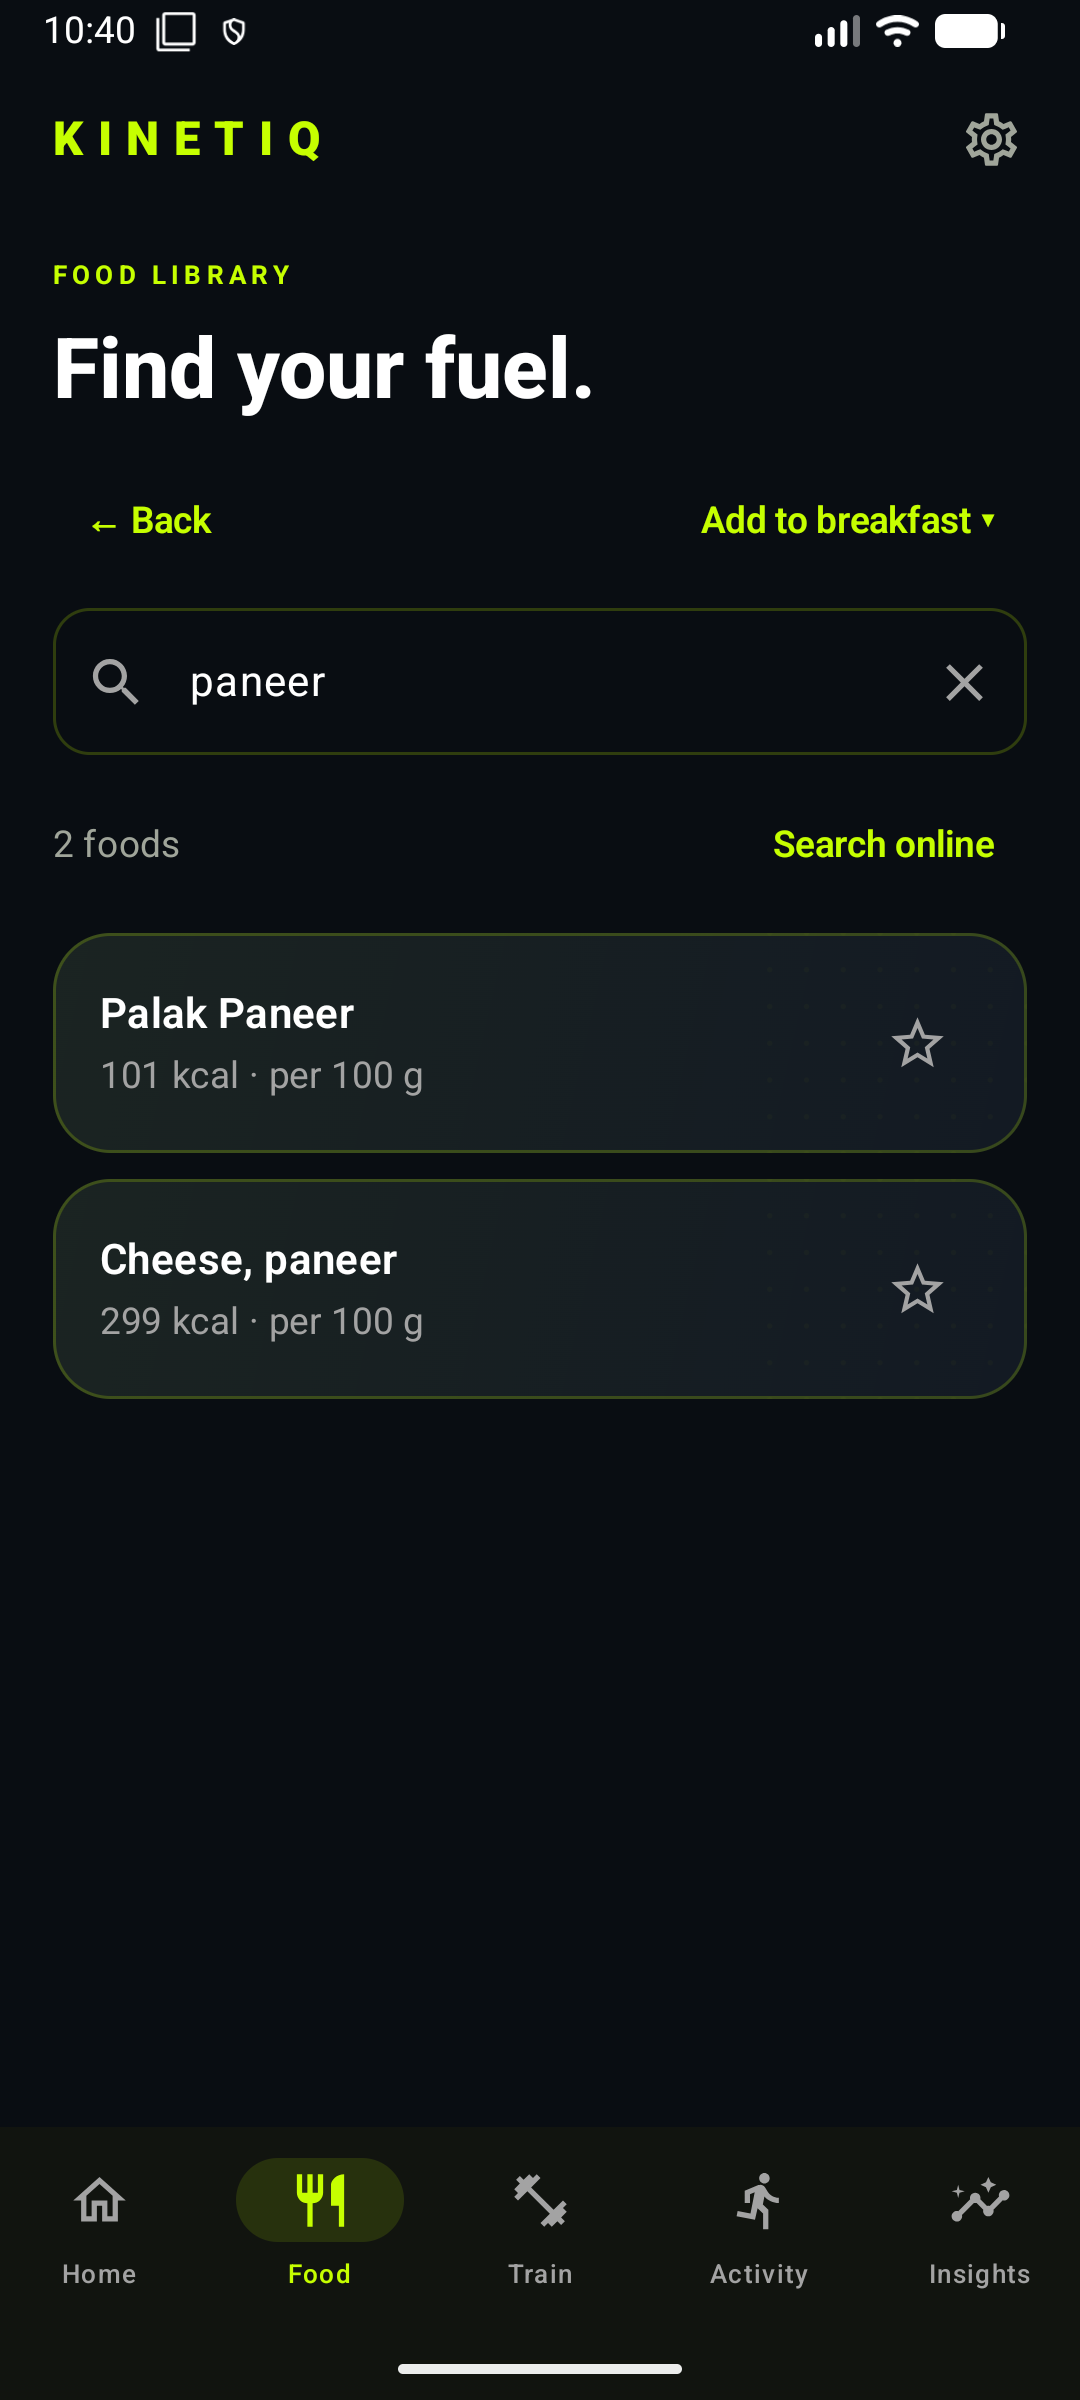
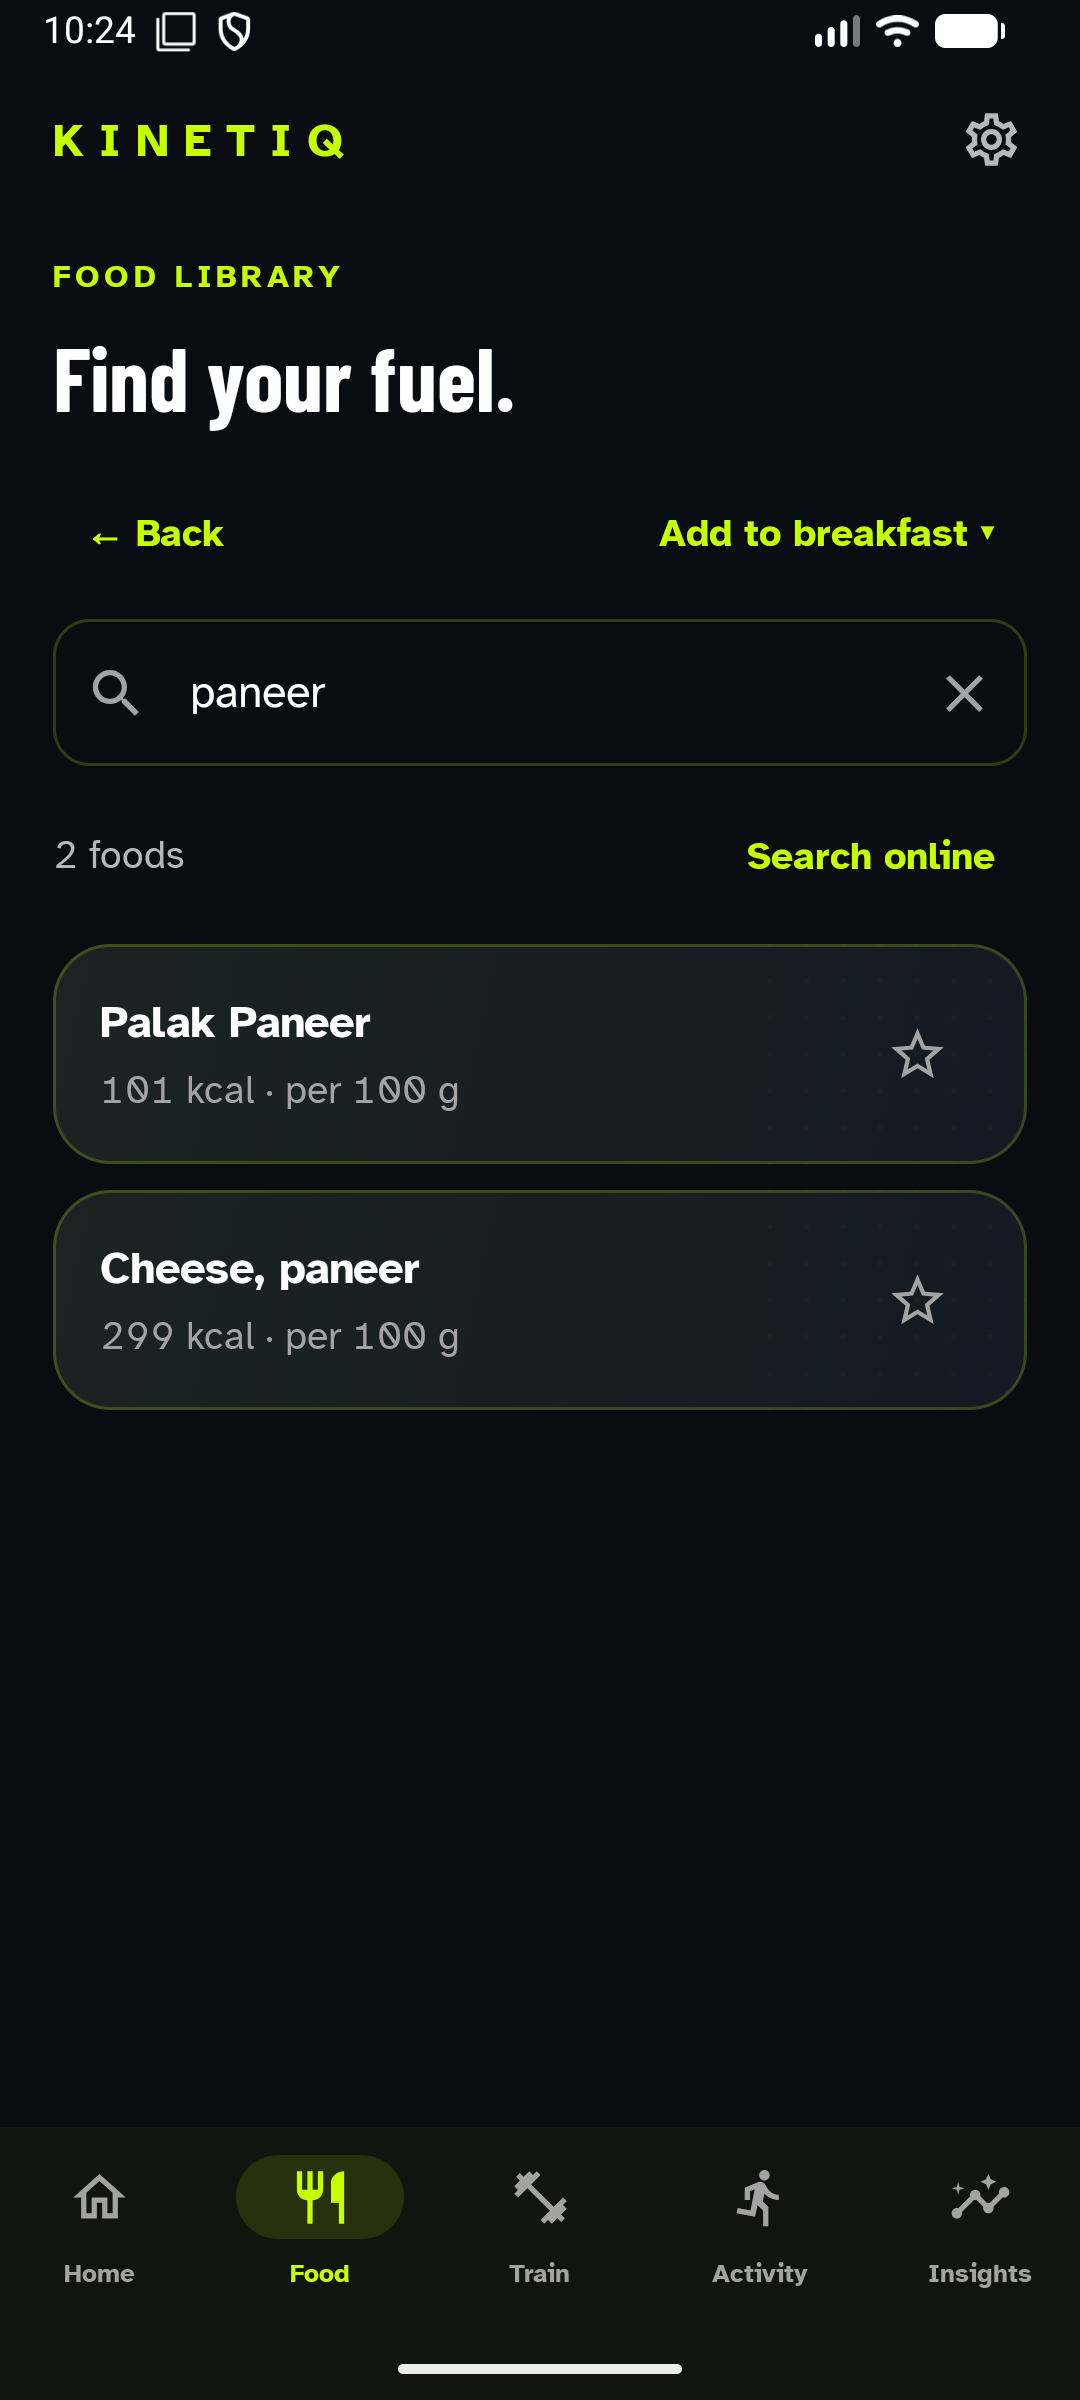
Show the barcode and energy Beta with verified isolated QA screenshots

diff --git a/README.md b/README.md
@@ -6,17 +6,20 @@ I wanted a fitness app that brought those things together, so I started building
 
 **[Download the Beta APK →](https://github.com/vaishnavg121/kinetiq-releases/releases)**
 
-Current Beta: **2.6.0-beta.1 · code 10** ([release and APKs](https://github.com/vaishnavg121/kinetiq-releases/releases/tag/v10-beta)).
+Current Beta: **2.7.0-beta.2 · code 12** ([release and APKs](https://github.com/vaishnavg121/kinetiq-releases/releases/tag/v12-beta)).
 
 <table>
 <tr><td><img src="docs/assets/01-home.png" width="260" alt="KINETIQ Home"></td><td><img src="docs/assets/03-food-search.png" width="260" alt="Offline food search"></td><td><img src="docs/assets/05-exercise-library.png" width="260" alt="Illustrated exercise library"></td></tr>
 <tr><td><img src="docs/assets/04-food-quantity.png" width="260" alt="Food-specific quantities and nutrition"></td><td><img src="docs/assets/08-activity-detail.png" width="260" alt="Saved GPS route"></td><td><img src="docs/assets/09-share-preview.png" width="260" alt="Actual route share preview"></td></tr>
 </table>
 
-These are actual code-10 emulator screens using isolated local QA records. [Screenshot provenance and checksums](docs/screenshot-provenance.json). The London route is simulated; the workout set is a draft example. No personal fitness records or simulated Spotify playback are presented as real activity.
+These are actual code-12 emulator screens using isolated local QA records. [Screenshot provenance and checksums](docs/screenshot-provenance.json). The London route is simulated; the workout set is a draft example. No personal fitness records or simulated Spotify playback are presented as real activity.
 
 - **Quick choices:** food and exercise pickers open on recent choices or favorites. Search the full library when you need something new; detailed nutrition, instructions and sources stay on the detail screen.
 - **Smart nutrition:** food starts at quantity 1.0, supports verified portions and decimal amounts, and can be edited under its original diary record. Explore all 30 stored nutrients, personal goals, macro/meal charts and contributing foods. Missing nutrients remain unknown. Home separates the food target from configurable estimated expenditure; typical exercise is not added again to a maintenance estimate.
+- **Barcode meals:** scan or type a code, choose a meal and precise quantity, then save through the same editable food form. Local matches work offline; unavailable products offer manual creation. Available vitamins and minerals use verified unit conversions.
+- **Energy you can trace:** supported walks, runs, rides, hikes and resistance sessions contribute eligible active estimates. Provider totals, active readings and personal step estimates are reconciled by source and time so overlaps contribute once. Missing inputs remain unavailable, and full-day projections are labelled.
+- **Readable Home:** a focused energy-balance display, compact nutrition sections, useful workout controls and openly licensed Barlow Condensed / Atkinson Hyperlegible typography. Small-screen layouts are checked at 150% text size.
 - **Food that works offline:** 13,118 source-backed USDA entries, local search and aliases, food-specific portions, custom nutrition, recipes and repeat meals. Online lookups are optional.
 - **Training:** 1,064 catalog records, offline visuals, pause/resume with saved drafts, completion summaries, supersets, templates and working-set PR history. 267 exact source-pose pairs support offline two-position previews with manual and play/pause controls.
 - **Interactive history:** tap or drag calorie, protein, volume, weight, pace and distribution charts; inspect contributing records and open the diary or session. Calendar filters and custom ranges use stored account data.
@@ -42,6 +45,6 @@ Exercise visuals include **268 source-illustrated movements (267 matched two-pos
 
 ## Credits, code and iteration
 
-USDA FoodData Central food data is public domain/CC0. Everkinetic / Greg Priday exercise data and vectors are CC BY-SA 4.0. Additional free-exercise-db **metadata** is Unlicensed/public-domain; its uncertain photographs are excluded. Original muscle maps are KINETIQ code. [Dataset provenance, licenses and coverage](docs/DATA_SOURCES.md).
+USDA FoodData Central food data is public domain/CC0. Barlow Condensed and Atkinson Hyperlegible are bundled under SIL OFL 1.1; original font licences remain in the APK. Everkinetic / Greg Priday exercise data and vectors are CC BY-SA 4.0. Additional free-exercise-db **metadata** is Unlicensed/public-domain; its uncertain photographs are excluded. Original muscle maps are KINETIQ code. [Dataset provenance, licenses and coverage](docs/DATA_SOURCES.md).
 
 AI agents contributed substantially to the code, fixes and tests. I review the result and keep iterating from actual bugs and phone feedback. The existing source repository is currently private because older history contains authenticated screenshots and device-derived fixtures. This public distribution repository hosts reviewed screenshots, notes and signed releases; history has not been rewritten or force-pushed.
